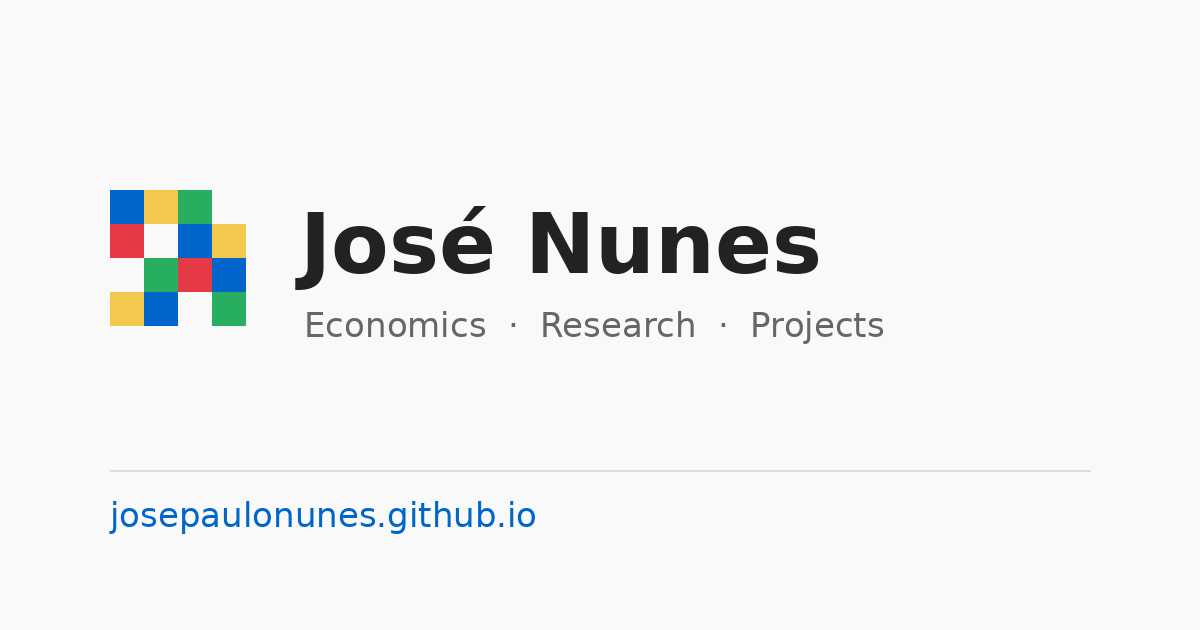
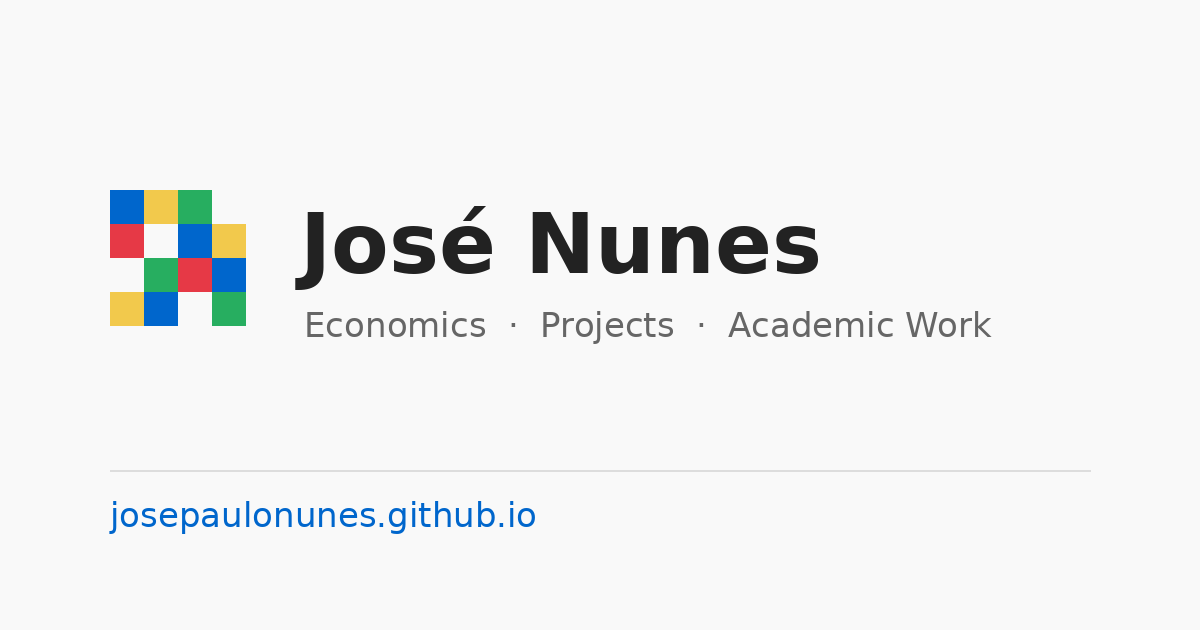
Add files via upload

Changed region(s): [[0.4625, 0.4825, 0.8325, 0.5429]]

diff --git a/_layouts/default.html b/_layouts/default.html
@@ -5,11 +5,11 @@
   <meta name="viewport" content="width=device-width, initial-scale=1.0">
 
   <title>{{ page.title }}</title>
-  <meta name="description" content="José Nunes — economist working on macroeconomics, finance and industrial organization. Research, data projects and CV.">
+  <meta name="description" content="José Nunes — economist working on macroeconomics, finance and industrial organization. Data projects, academic work and CV.">
 
   <!-- Preview card when the link is shared (LinkedIn, WhatsApp, etc.) -->
   <meta property="og:title" content="José Nunes">
-  <meta property="og:description" content="Economics · Research · Projects">
+  <meta property="og:description" content="Economics · Projects · Academic Work">
   <meta property="og:image" content="https://josepaulonunes.github.io/og-image.png">
   <meta property="og:url" content="https://josepaulonunes.github.io/">
   <meta property="og:type" content="website">
@@ -27,7 +27,7 @@
       <!-- Uncomment when the Projects section goes live:
       <li><a href="/#projects">Projects</a></li>
       -->
-      <li><a href="/#research">Research</a></li>
+      <li><a href="/#academic">Academic Work</a></li>
       <li><a href="/Jose_Nunes.pdf">CV</a></li>
     </ul>
   </nav>

diff --git a/css/main.css b/css/main.css
@@ -249,6 +249,23 @@ a:hover::after, .clickable-paper:hover::after {
   transform-origin: left;
 }
 
+.paper-meta {
+  margin: 0.15em 0 0.1em;
+  font-size: 0.85em;
+  color: #777;
+}
+
+.paper-meta + .clickable-paper {
+  margin-left: 0;
+}
+
+.section-note {
+  margin: -0.4em 0 1.4em;
+  color: #777;
+  font-size: 0.92em;
+  font-style: italic;
+}
+
 /* =========================
    Projects
    ========================= */

diff --git a/index.md b/index.md
@@ -5,7 +5,7 @@ title: José Nunes
 
 <div class="profile-header">
 
-  <img class="profile-picture" src="/profile.png" alt="José Nunes">
+  <img class="profile-picture" src="/profile.jpg" alt="José Nunes">
 
   <div class="profile-text">
 
@@ -84,34 +84,38 @@ I'm an economist intern at ERSE, Portugal's energy sector regulator, working on 
 </div>
 -->
 
-<h2 id="research">Research</h2>
+<h2 id="academic">Academic Work</h2>
+
+<p class="section-note">Written during my BSc in Economics at Nova SBE.</p>
 
 <ul class="papers">
 
 <li>
 <a href="/PISA_ICT_Math.pdf"><strong>The Impact of ICT Regulations on the Achievement Gap in Mathematics: A Cross-Sectional Analysis</strong></a>
-<span class="clickable-paper"> [Summary] </span>
+<div class="paper-meta">Empirical paper · Econometrics · Group of 4 · Grade 19/20</div>
+<span class="clickable-paper">[Summary]</span>
 <div class="abstract">
-This study examines whether stricter school-level ICT regulation can reduce socioeconomic disparities in Mathematics performance. Using OECD PISA 2022 data from 81,850 students across ten developed economies, we estimate a series of Weighted Least Squares models incorporating socioeconomic, behavioural, demographic, institutional, and country-level controls. The results indicate that stronger ICT regulation is positively associated with Mathematics scores and has an additional positive association for students from disadvantaged socioeconomic backgrounds, suggesting that school-level digital policies may contribute to reducing achievement gaps.
-<p><strong>My contribution:</strong> responsible for the results and R code (including all graphs). <strong>Grade:</strong> 19/20</p>
+<p>Does stricter school-level regulation of phones and digital devices narrow the maths gap between disadvantaged students and their better-off peers? Using PISA 2022 data on about 82,000 students in ten economies, we estimate weighted least squares models that add socioeconomic, behavioural, school and country fixed-effect controls step by step. Once country fixed effects are included, moving from the least to the most regulated schools is associated with about 25 more points in maths (more than a year of schooling), and about 35 points for disadvantaged students. These are associations from cross-sectional data, not causal effects.</p>
+<p><strong>My contribution:</strong> the results section and the Python code, including all graphs.</p>
 </div>
 </li>
 
 <li>
 <a href="/EU_Innovation_Gaps.pdf"><strong>Socioeconomic and Structural Factors in Innovation Gaps: Eastern vs. Western European Union</strong></a>
-<span class="clickable-paper"> [Summary] </span>
+<div class="paper-meta">Empirical paper · Econometrics · Group of 4 · Grade 18/20</div>
+<span class="clickable-paper">[Summary]</span>
 <div class="abstract">
-This study investigates the extent to which socioeconomic and structural factors explain differences in innovation performance between Eastern and Western EU member states. Using patent applications to the European Patent Office (EPO) in 2017 as a proxy for innovation output, alongside Eurostat data on population, R&D expenditure, education levels, and unemployment, the analysis applies a series of OLS regression models incorporating an East-West regional indicator. The results show that while these socioeconomic and structural factors help explain patenting activity, a substantial and statistically significant gap between Eastern and Western EU countries persists even after controlling for them, suggesting that structural or institutional differences not captured by these variables continue to drive the divide in innovation output.
-<p><strong>My contribution:</strong> responsible for the results, robustness checks, and R code (including all graphs). <strong>Grade:</strong> 18/20</p>
+<p>Why do Eastern EU member states file far fewer patents than Western ones? Using 2017 data for 27 EU countries (patent applications to the European Patent Office, R&amp;D spending, tertiary education, population and unemployment), we estimate OLS models with an East–West indicator and check robustness with HC3 robust standard errors, VIF and RESET tests. Even after these controls, Eastern countries file roughly 45% fewer patents: the factors we measure do not close the gap, which points to institutional differences our data cannot capture.</p>
+<p><strong>My contribution:</strong> the results, the robustness checks and the R code, including all graphs.</p>
 </div>
 </li>
 
 <li>
 <a href="/Tuition_Fee_Reform.pdf"><strong>Tuition Fee Reform: Policy Recommendation</strong></a>
-<span class="clickable-paper"> [Summary] </span>
+<div class="paper-meta">Policy essay · Public Economics · Individual · Grade 18/20</div>
+<span class="clickable-paper">[Summary]</span>
 <div class="abstract">
-This paper examines the efficiency and equity impacts of higher education tuition fees, drawing on evidence from Germany's 2007 university fee reforms. Using key public economics concepts like positive externalities, Pigouvian subsidies, optimal taxation, and welfare theory, it shows that shifting costs onto students triggers severe market failures. The evidence reveals that even small fees drop overall enrollment, alter student mobility, and place an unfair burden on low income families.
-<p>Ultimately, keeping tuition low or free is essential to safeguard equal opportunity, avoid underinvestment in education, and drive long term economic growth. <strong>Grade:</strong> 18/20</p>
+<p>Should university students pay higher tuition fees? Drawing on evidence from Germany's 2007 tuition fee reforms and on public economics tools (externalities, tax incidence, the Ramsey rule and welfare criteria), I argue that raising fees reduces enrolment, falls hardest on low-income students, and is both inefficient and inequitable.</p>
 </div>
 </li>
 
